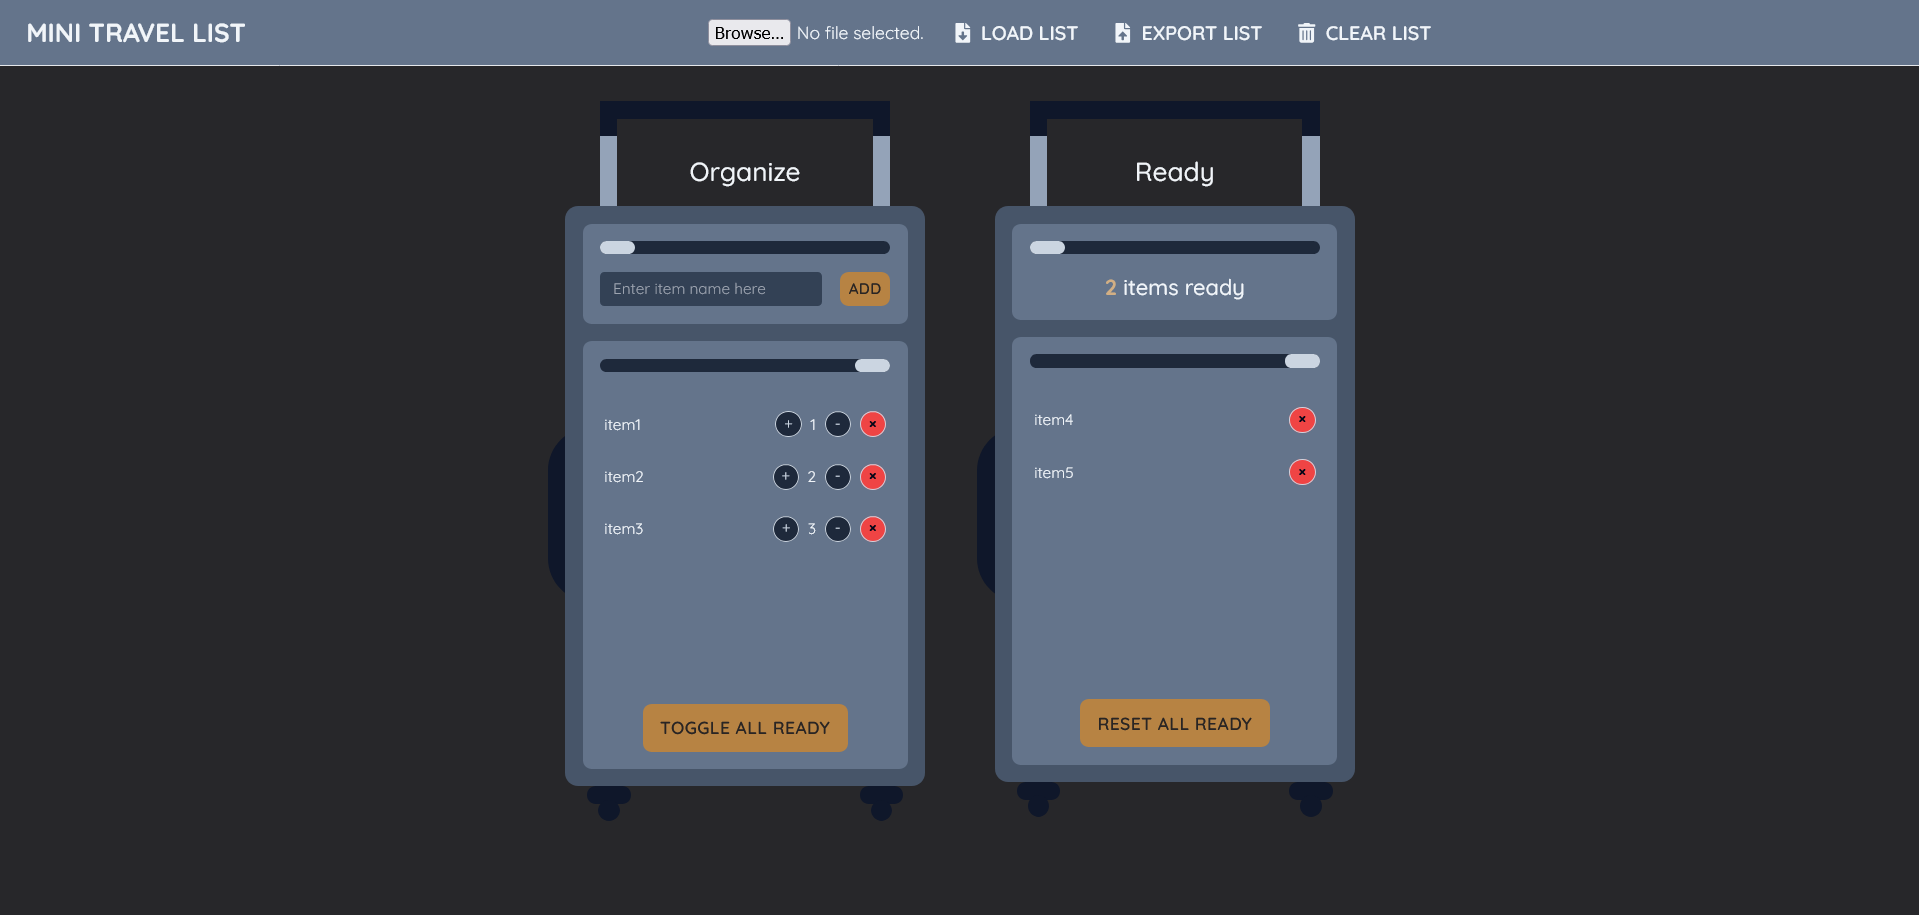
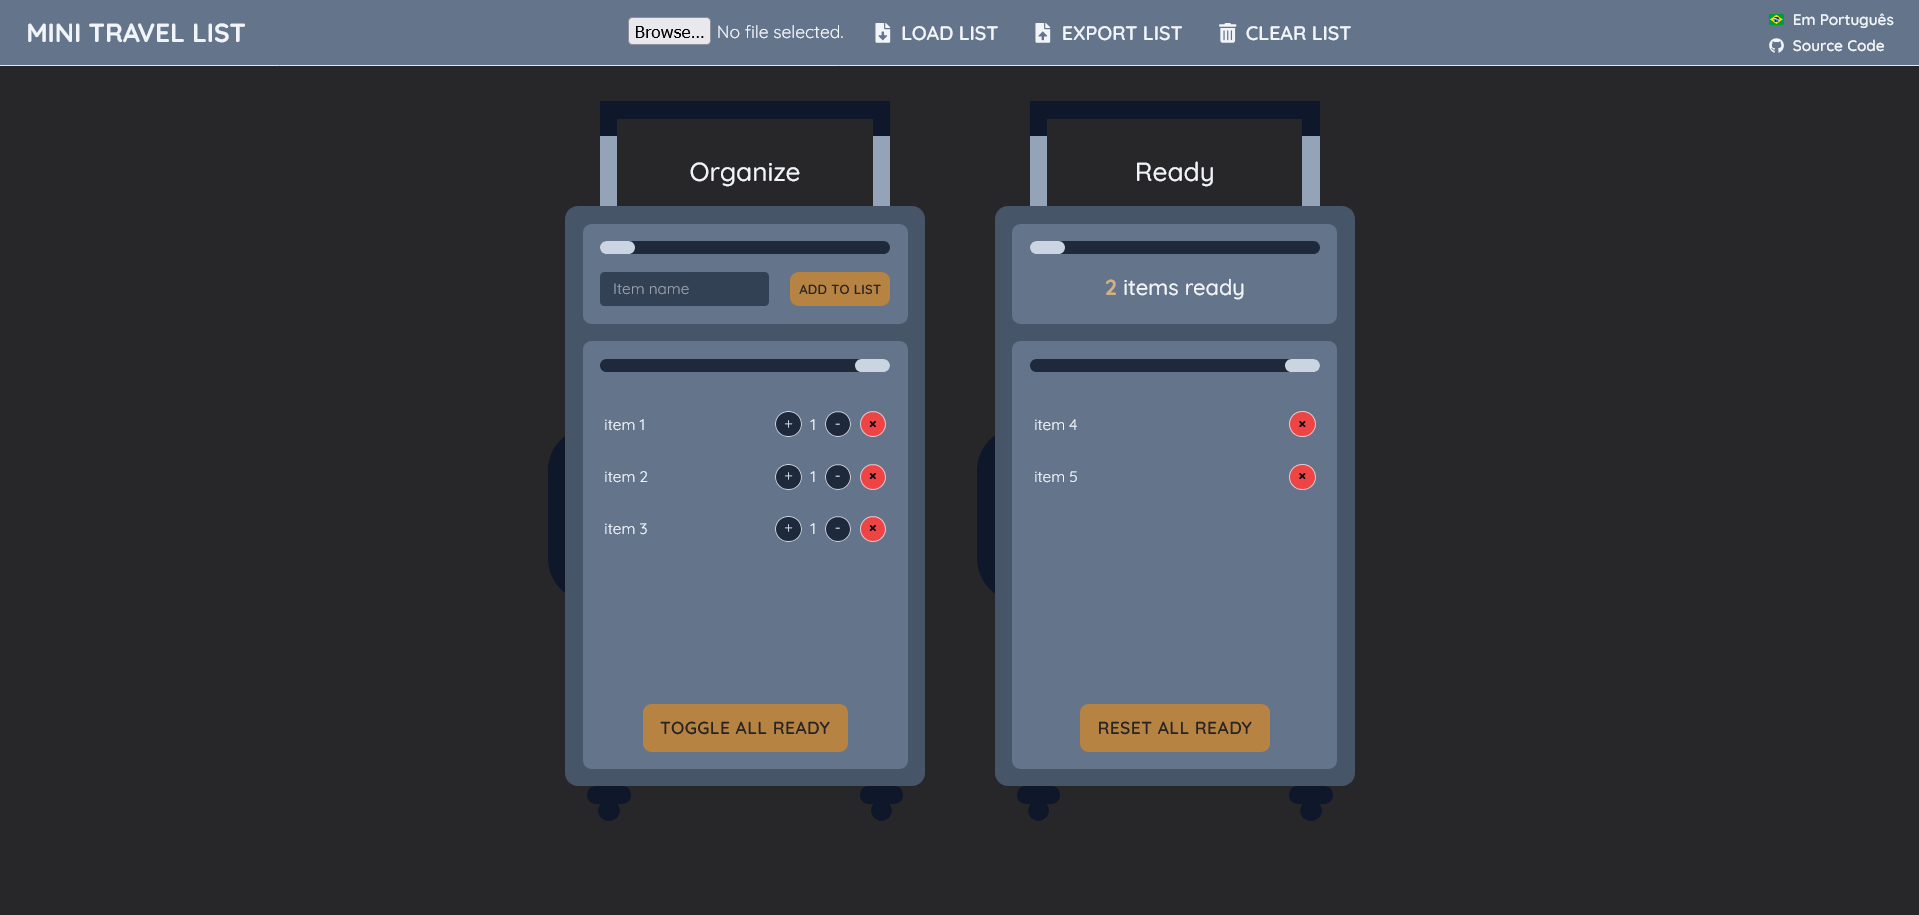
add i18n and fix layout

diff --git a/src/components/Navigation.tsx b/src/components/Navigation.tsx
@@ -83,68 +83,68 @@ export default function Navigation({
   };
 
   return (
-    <ul
-      className={`md:flex md:flex-1 md:justify-center md:gap-8 md:items-center text-lg uppercase font-semibold gap-6 ${
-        isNavOpen
-          ? "bg-slate-500 flex flex-col h-auto w-full absolute z-10 left-0 top-16 border-b-[1px] pb-6 pt-4 px-6"
-          : "hidden"
-      }`}
-    >
-      <li className="hover:text-accent-400">
-        <form
-          className="md:py-4 md:flex-row md:gap-6 md:w-full flex flex-row-reverse justify-end items-center font-base gap-4 flex-wrap"
-          onSubmit={(e) => handleImportJSON(e)}
+    <>
+      <ul
+        className={`md:flex md:flex-1 md:justify-center md:gap-8 md:items-center text-lg uppercase font-semibold gap-6 ${
+          isNavOpen
+            ? "bg-slate-500 flex flex-col h-auto w-full absolute z-10 left-0 top-16 border-b-[1px] pb-8 pt-4 px-6"
+            : "hidden"
+        }`}
+      >
+        <li className="md:ml-auto hover:text-accent-400">
+          <form
+            className="md:py-4 md:flex-row md:gap-6 md:w-full flex flex-col gap-4"
+            onSubmit={(e) => handleImportJSON(e)}
+          >
+            <input
+              type="file"
+              accept=".json"
+              onChange={handleChange}
+              className="text-base font-normal max-w-[200px]"
+            />
+            <button type="submit" className="uppercase">
+              <span className="flex items-center gap-2">
+                <FaFileDownload /> {t("headerOptions.load")}
+              </span>
+            </button>
+          </form>
+        </li>
+
+        <li
+          role="button"
+          onClick={handleExportToJSON}
+          className="hover:text-accent-400"
         >
-          <input
-            type="file"
-            accept=".json"
-            onChange={handleChange}
-            className="text-base font-normal max-w-[200px]"
-          />
-          <button type="submit" className="uppercase">
-            <span className="flex items-center gap-2">
-              <FaFileDownload /> {t("headerOptions.load")}
+          <span className="flex items-center gap-2">
+            <FaFileUpload /> {t("headerOptions.export")}
+          </span>
+        </li>
+
+        <li
+          role="button"
+          onClick={handleClearList}
+          className="md:pb-0 hover:text-accent-400 pb-4"
+        >
+          <span className="flex items-center gap-2">
+            <FaTrashAlt />
+            {t("headerOptions.clear")}
+          </span>
+        </li>
+
+        <li className="md:ml-auto md:gap-1 md:text-sm flex flex-col items-start gap-4 text-base font-semibold normal-case">
+          <Button size="textLanguage" onClick={changeLanguage}>
+            <span className="">{t("headerOptions.changeLanguage")}</span>
+          </Button>
+          <a
+            href="https://github.com/tsm13/mini-travel-list"
+            className="hover:text-accent-400"
+          >
+            <span className="flex items-center gap-2 ">
+              <FaGithub /> {t("headerOptions.github")}
             </span>
-          </button>
-        </form>
-      </li>
-
-      <li
-        role="button"
-        onClick={handleExportToJSON}
-        className="hover:text-accent-400"
-      >
-        <span className="flex items-center gap-2">
-          <FaFileUpload /> {t("headerOptions.export")}
-        </span>
-      </li>
-
-      <li
-        role="button"
-        onClick={handleClearList}
-        className="hover:text-accent-400"
-      >
-        <span className="flex items-center gap-2">
-          <FaTrashAlt />
-          {t("headerOptions.clear")}
-        </span>
-      </li>
-
-      <div>
-        <Button size="textLanguage" onClick={changeLanguage}>
-          <span className="text-sm uppercase">
-            {t("headerOptions.changeLanguage")}
-          </span>
-        </Button>
-        <a
-          href="https://github.com/tsm13/mini-travel-list"
-          className="hover:text-accent-400 text-sm"
-        >
-          <span className="flex items-center gap-2 ">
-            <FaGithub /> {t("headerOptions.github")}
-          </span>
-        </a>
-      </div>
-    </ul>
+          </a>
+        </li>
+      </ul>
+    </>
   );
 }

diff --git a/src/components/Button.tsx b/src/components/Button.tsx
@@ -7,7 +7,7 @@ interface Props {
     | "large"
     | "smallBlack"
     | "smallRed"
-    | "text-language";
+    | "textLanguage";
 }
 
 export default function Button({ children, onClick, size }: Props) {
@@ -15,17 +15,17 @@ export default function Button({ children, onClick, size }: Props) {
     "text-base bg-accent-600 hover:bg-accent-500 font-semibold uppercase tracking-wide text-stone-800 transition-colors duration-300 disabled:cursor-not-allowed rounded-lg focus:bg-accent-500 focus:outline-none focus:ring focus:ring-accent-600 focus:ring-offset-1";
 
   const baseSmall =
-    " text-slate-300 rounded-full w-6 h-6 flex place-content-center border border-slate-300 active:translate-y-0.5 transition-transform duration-400 ";
+    " text-slate-300 rounded-full w-6 h-6 flex place-content-center border border-slate-300 active:translate-y-0.5 transition-transform duration-400";
 
   const style = {
-    small: base + " px-2 py-1.5 text-sm font-bold",
-    medium: base + " py-2.5 px-4 place-self-center text-sm md:text-base",
-    large: base + " py-3 px-5 text-sm md:text-base",
+    small: base + " px-2 py-1.5 text-xs font-bold",
+    medium: base + " py-2.5 px-4 place-self-center text-sm sm:text-base",
+    large: base + " py-3 px-5 text-sm sm:text-base",
     smallBlack: baseSmall + " font-normal bg-slate-800",
     smallRed:
       baseSmall +
       " text-slate-950 text-sm bg-red-500 active:bg-red-600 font-bold",
-    "text-language": "hover:text-accent-400",
+    textLanguage: "hover:text-accent-400",
   };
 
   return (

diff --git a/src/config/i18n.ts b/src/config/i18n.ts
@@ -22,12 +22,12 @@ i18next
             load: "Load list",
             export: "Export list",
             clear: "Clear list",
-            changeLanguage: "🇧🇷 Em Português",
+            changeLanguage: "🇧🇷  Em Português",
             github: "Source Code",
           },
           listFunctions: {
-            enter: "Enter item name here",
-            add: "Add",
+            enter: "Item name",
+            add: "Add to list",
             toggleReady: "Toggle all ready",
             resetReady: "Reset all ready",
             itemsReady_one: "item ready",
@@ -45,12 +45,12 @@ i18next
             load: "Importar lista",
             export: "Exportar lista",
             clear: "Apagar lista",
-            changeLanguage: "🇬🇧 In English",
+            changeLanguage: "🇬🇧  In English",
             github: "Código fonte",
           },
           listFunctions: {
-            enter: "Digite o nome do item",
-            add: "Inserir",
+            enter: "Nome do item",
+            add: "Adicionar",
             toggleReady: "Todos prontos",
             resetReady: "Desfazer prontos",
             itemsReady_one: "objeto pronto",

diff --git a/src/components/AddItem.tsx b/src/components/AddItem.tsx
@@ -28,7 +28,7 @@ export default function AddItem() {
           type="text"
           value={inputValue}
           onChange={(e) => setInputValue(e.target.value)}
-          className="rounded bg-slate-700 px-3 h-8 flex-1 focus:outline-none focus:ring focus:ring-accent-600 focus:ring-offset-1"
+          className="rounded bg-slate-700 px-3 h-8 flex-1 focus:outline-none focus:ring focus:ring-accent-600 focus:ring-offset-1 max-w-[155px]"
           placeholder={t("listFunctions.enter")}
         ></input>
         <Button size="small">{t("listFunctions.add")}</Button>

diff --git a/src/components/ui/suitcase/Upper.tsx b/src/components/ui/suitcase/Upper.tsx
@@ -2,7 +2,7 @@ import Zipper from "./Zipper";
 
 export default function Upper({ children }: { children: React.ReactElement }) {
   return (
-    <div className="bg-slate-500 rounded-lg px-4 py-4 flex flex-col gap-4">
+    <div className="bg-slate-500 rounded-lg px-4 py-4 flex flex-col gap-4 h-[92px]">
       <Zipper side="start" />
       <span className="">{children}</span>
     </div>

diff --git a/src/main.tsx b/src/main.tsx
@@ -3,7 +3,7 @@ import ReactDOM from "react-dom/client";
 import App from "./App.tsx";
 import "./index.css";
 import { ContentProvider } from "./context/ListContext.tsx";
-import "./i18n";
+import "./config/i18n.ts";
 
 ReactDOM.createRoot(document.getElementById("root")!).render(
   <React.StrictMode>

diff --git a/tailwind.config.js b/tailwind.config.js
@@ -8,7 +8,7 @@ export default {
       sm: "760px",
       // => @media (min-width: 576px) { ... }
 
-      md: "1100px",
+      md: "1200px",
       // => @media (min-width: 960px) { ... }
 
       lg: "1440px",

diff --git a/README.md b/README.md
@@ -4,7 +4,7 @@
 
 ### 🇬🇧 About this app:
 
-A minimalist (and self-indulgent) little project built mainly for personal use, and to practice state management in React, and styling with Tailwind. This app works entirely locally, as data is stored in the browser's local storage, and includes options to export and import the list file in JSON format.
+A minimalist (and self-indulgent) little project built mainly for personal use, and to practice state management in React, styling with Tailwind and i18n with the i18nnext. This app works entirely locally, as data is stored in the browser's local storage, and includes options to export and import the list file in JSON format.
 
 The app workflow is as such:
 
